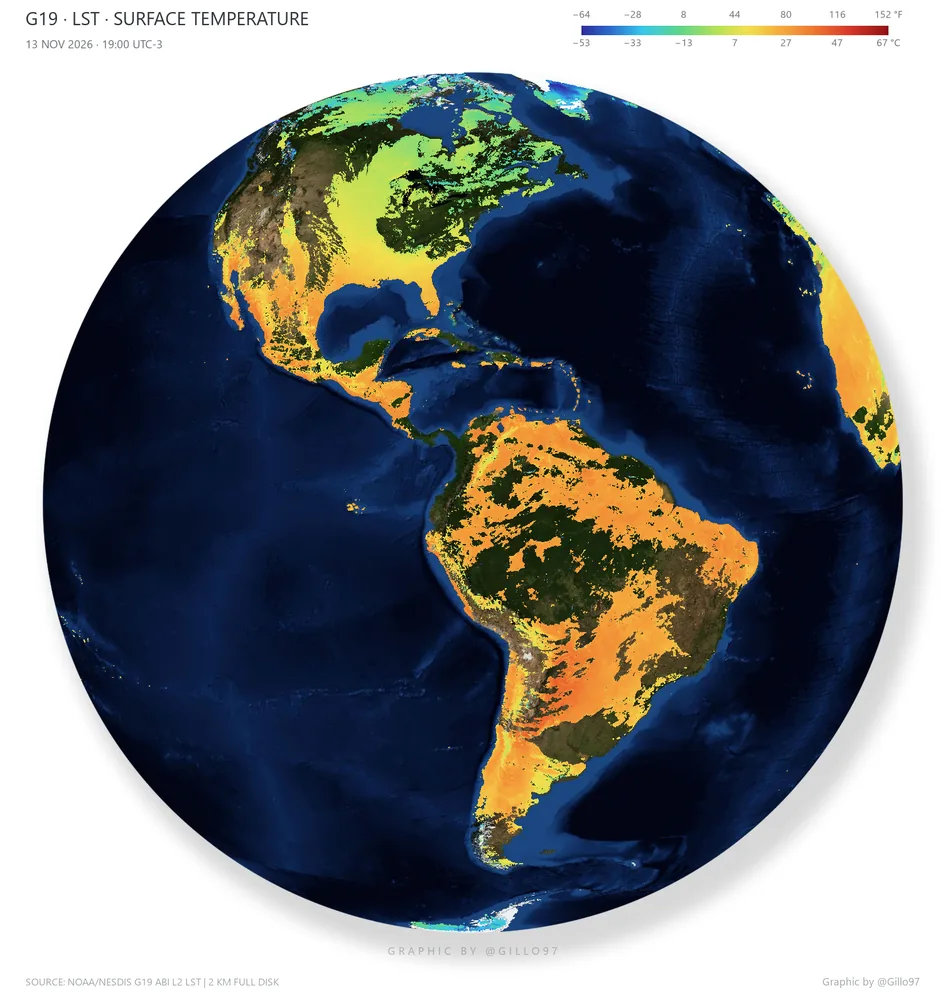
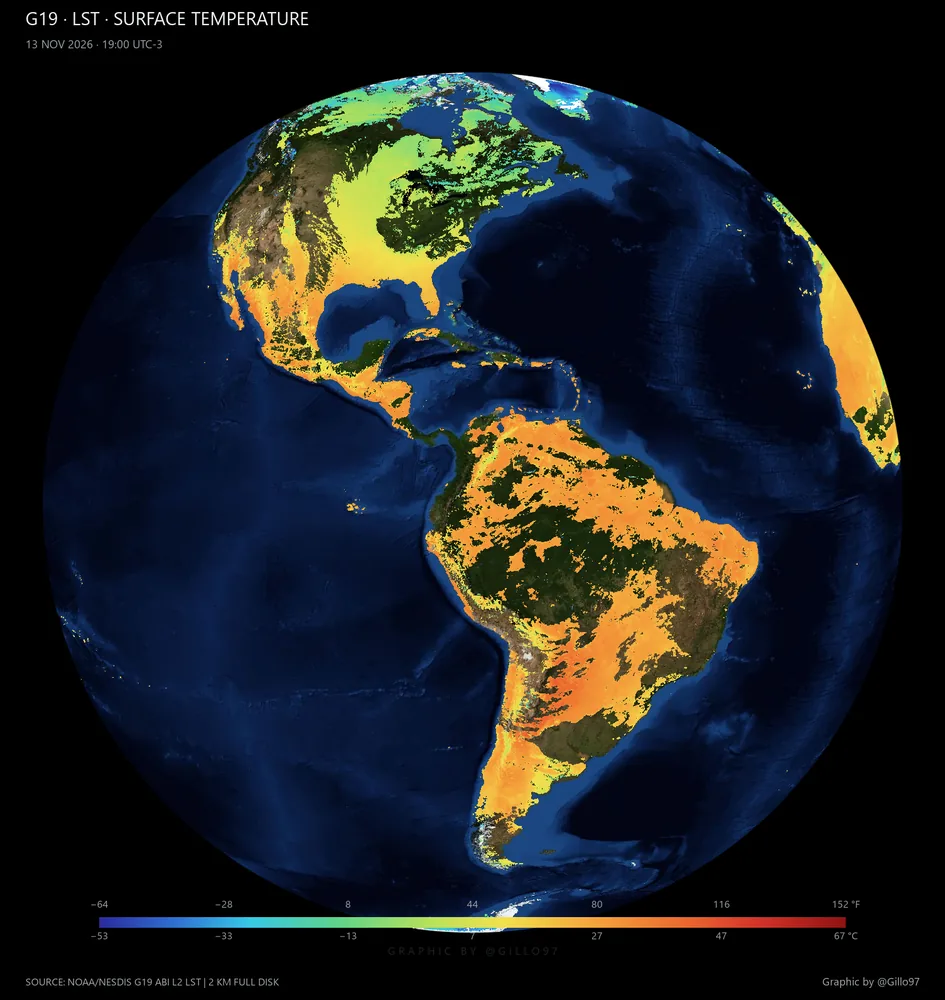
fix(goes-lst): snapshot con el formato actual de los demas productos
Pagina negra a sangre, sin pagina blanca ni aro circular: se invierten los globales de tinta de poster_goes_truecolor igual que hace el color real con --fondo oscuro, y la leyenda de dos escalas baja al pie.

RECETA_VERSION sube a 15: la cache incluye como se dibuja, no solo los parametros, asi el snapshot viejo no se sirve de nuevo.

diff --git a/prototipos/poster_goes_lst.py b/prototipos/poster_goes_lst.py
@@ -349,7 +349,7 @@ def componer_lst(nc: Path, args) -> tuple[np.ndarray, float, dict]:
     cubiertos = float(np.isfinite(campo).sum()) / float(campo.size) if campo.size else 0.0
 
     fondo = None
-    if getattr(args, "fondo", "negro") == "base":
+    if getattr(args, "mapa", "base") == "base":
         fondo = _fondo_globo(nc, args.sat, args.px, tuple(args.centro),
                              args.recorte,
                              int(getattr(args, "fondo_ancho", ANCHO_FONDO)),
@@ -393,7 +393,7 @@ def componer_lst(nc: Path, args) -> tuple[np.ndarray, float, dict]:
     args.interp = "bilinear"
     stats = {"px": px, "validos": validos, "cobertura": cobertura,
              "cubiertos": cubiertos, "relleno": relleno, "compuesto": usadas,
-             "fondo": getattr(args, "fondo", "negro"), **estadisticas}
+             "fondo": getattr(args, "mapa", "base"), **estadisticas}
     return np.dstack([rgb, alfa]), escala, stats
 
 
@@ -415,6 +415,18 @@ def _etiqueta_tiempo(nc: Path, horas: int) -> str:
     return f"{fecha} \u00b7 COMPUESTO {inicio:%H:%M}\u2013{final:%H:%M} UTC-3"
 
 
+def _tinta_oscura() -> None:
+    """Black page with light ink: the house style of the other GOES snapshots.
+
+    `poster_goes_truecolor.dibujar` reads `WHITE` / `INK` / `INK_SOFT` from its
+    own module at call time, so inverting those globals here is the same switch
+    the color-real poster uses for `--fondo oscuro`.
+    """
+    tc.WHITE = "#000000"
+    tc.INK = "#eef2f5"
+    tc.INK_SOFT = "#9aa0a6"
+
+
 def _leyenda(fig, args) -> None:
     """Two-scale horizontal legend: Fahrenheit above, Celsius below the bar."""
     if args.limpio:
@@ -423,7 +435,7 @@ def _leyenda(fig, args) -> None:
     from matplotlib.colors import Normalize
 
     _lut()  # make sure the product ramp is built before the legend samples it
-    cax = fig.add_axes([0.615, 0.965, 0.325, 0.009], zorder=9)
+    cax = fig.add_axes([0.105, 0.072, 0.790, 0.011], zorder=9)
     sm = plt.cm.ScalarMappable(norm=Normalize(args.vmin, args.vmax), cmap=_CMAP)
     sm.set_array([])
     cbar = fig.colorbar(sm, cax=cax, orientation="horizontal")
@@ -469,9 +481,12 @@ def main(argv=None) -> int:
     ap.add_argument("--dpi", type=int, help="dpi; inferred from --px when omitted")
     ap.add_argument("--tope", type=int, default=TOPE,
                     help=f"source grid of the field (default {TOPE}, native 2 km)")
-    ap.add_argument("--fondo", choices=("base", "negro"), default="base",
+    ap.add_argument("--mapa", choices=("base", "negro"), default="base",
                     help="under the data: the Blue Marble base map or black "
                          "(default base: no black holes)")
+    ap.add_argument("--fondo", choices=("claro", "oscuro"), default="oscuro",
+                    help="page background, like the other GOES snapshots "
+                         "(default oscuro: black, full-bleed globe)")
     ap.add_argument("--fondo-ancho", type=int, default=ANCHO_FONDO,
                     help=f"width of the cached base map (default {ANCHO_FONDO})")
     ap.add_argument("--capa-fondo", default=CAPA_FONDO,
@@ -510,6 +525,8 @@ def main(argv=None) -> int:
     args.fuente = args.fuente or (
         f"SOURCE: NOAA/NESDIS {args.sat} ABI L2 LST | 2 KM FULL DISK"
     )
+    if args.fondo == "oscuro":
+        _tinta_oscura()
 
     desde = datetime.fromisoformat(args.desde) if args.desde else None
     lista = slots(args.sat, desde, args.n, args.paso, args.ultimos)

diff --git a/app/tests/test_goes_lst_catalogo.py b/app/tests/test_goes_lst_catalogo.py
@@ -176,7 +176,8 @@ class Plan(unittest.TestCase):
 
     def test_el_render_pide_fondo_y_relleno(self):
         render = [p for p in self._plan().pasos if p.kind == "render"][0]
-        self.assertEqual(render.args[render.args.index("--fondo") + 1], "base")
+        self.assertEqual(render.args[render.args.index("--mapa") + 1], "base")
+        self.assertEqual(render.args[render.args.index("--fondo") + 1], "oscuro")
         self.assertEqual(render.args[render.args.index("--relleno") + 1], "2")
         self.assertEqual(render.args[render.args.index("--compuesto") + 1], "1")
 

diff --git a/app/api/recipes.py b/app/api/recipes.py
@@ -1589,7 +1589,9 @@ def _goes_lst(params: dict[str, Any], work: Path) -> Plan:
         "--paso", str(paso),
         "--px", str(px),
         # Sin huecos negros: fondo Blue Marble y puente corto sobre la textura.
-        "--fondo", "base",
+        # Pagina negra a sangre, como el resto de los snapshots GOES.
+        "--mapa", "base",
+        "--fondo", "oscuro",
         "--relleno", "2",
         "--compuesto", str(compuesto),
         *marco,

diff --git a/app/api/jobs.py b/app/api/jobs.py
@@ -46,7 +46,7 @@ HISTORIAL = "historial.jsonl"
 
 # Subir esto invalida la cache: la firma tiene que representar la receta entera,
 # incluido como se dibuja (paleta, fondo, capas), no solo los parametros.
-RECETA_VERSION = 14
+RECETA_VERSION = 15
 
 # Reparto del progreso entre etapas. La descarga y el render son lo que pesa.
 _PESO = {"download": 0.4, "render": 0.5, "animate": 0.1}
